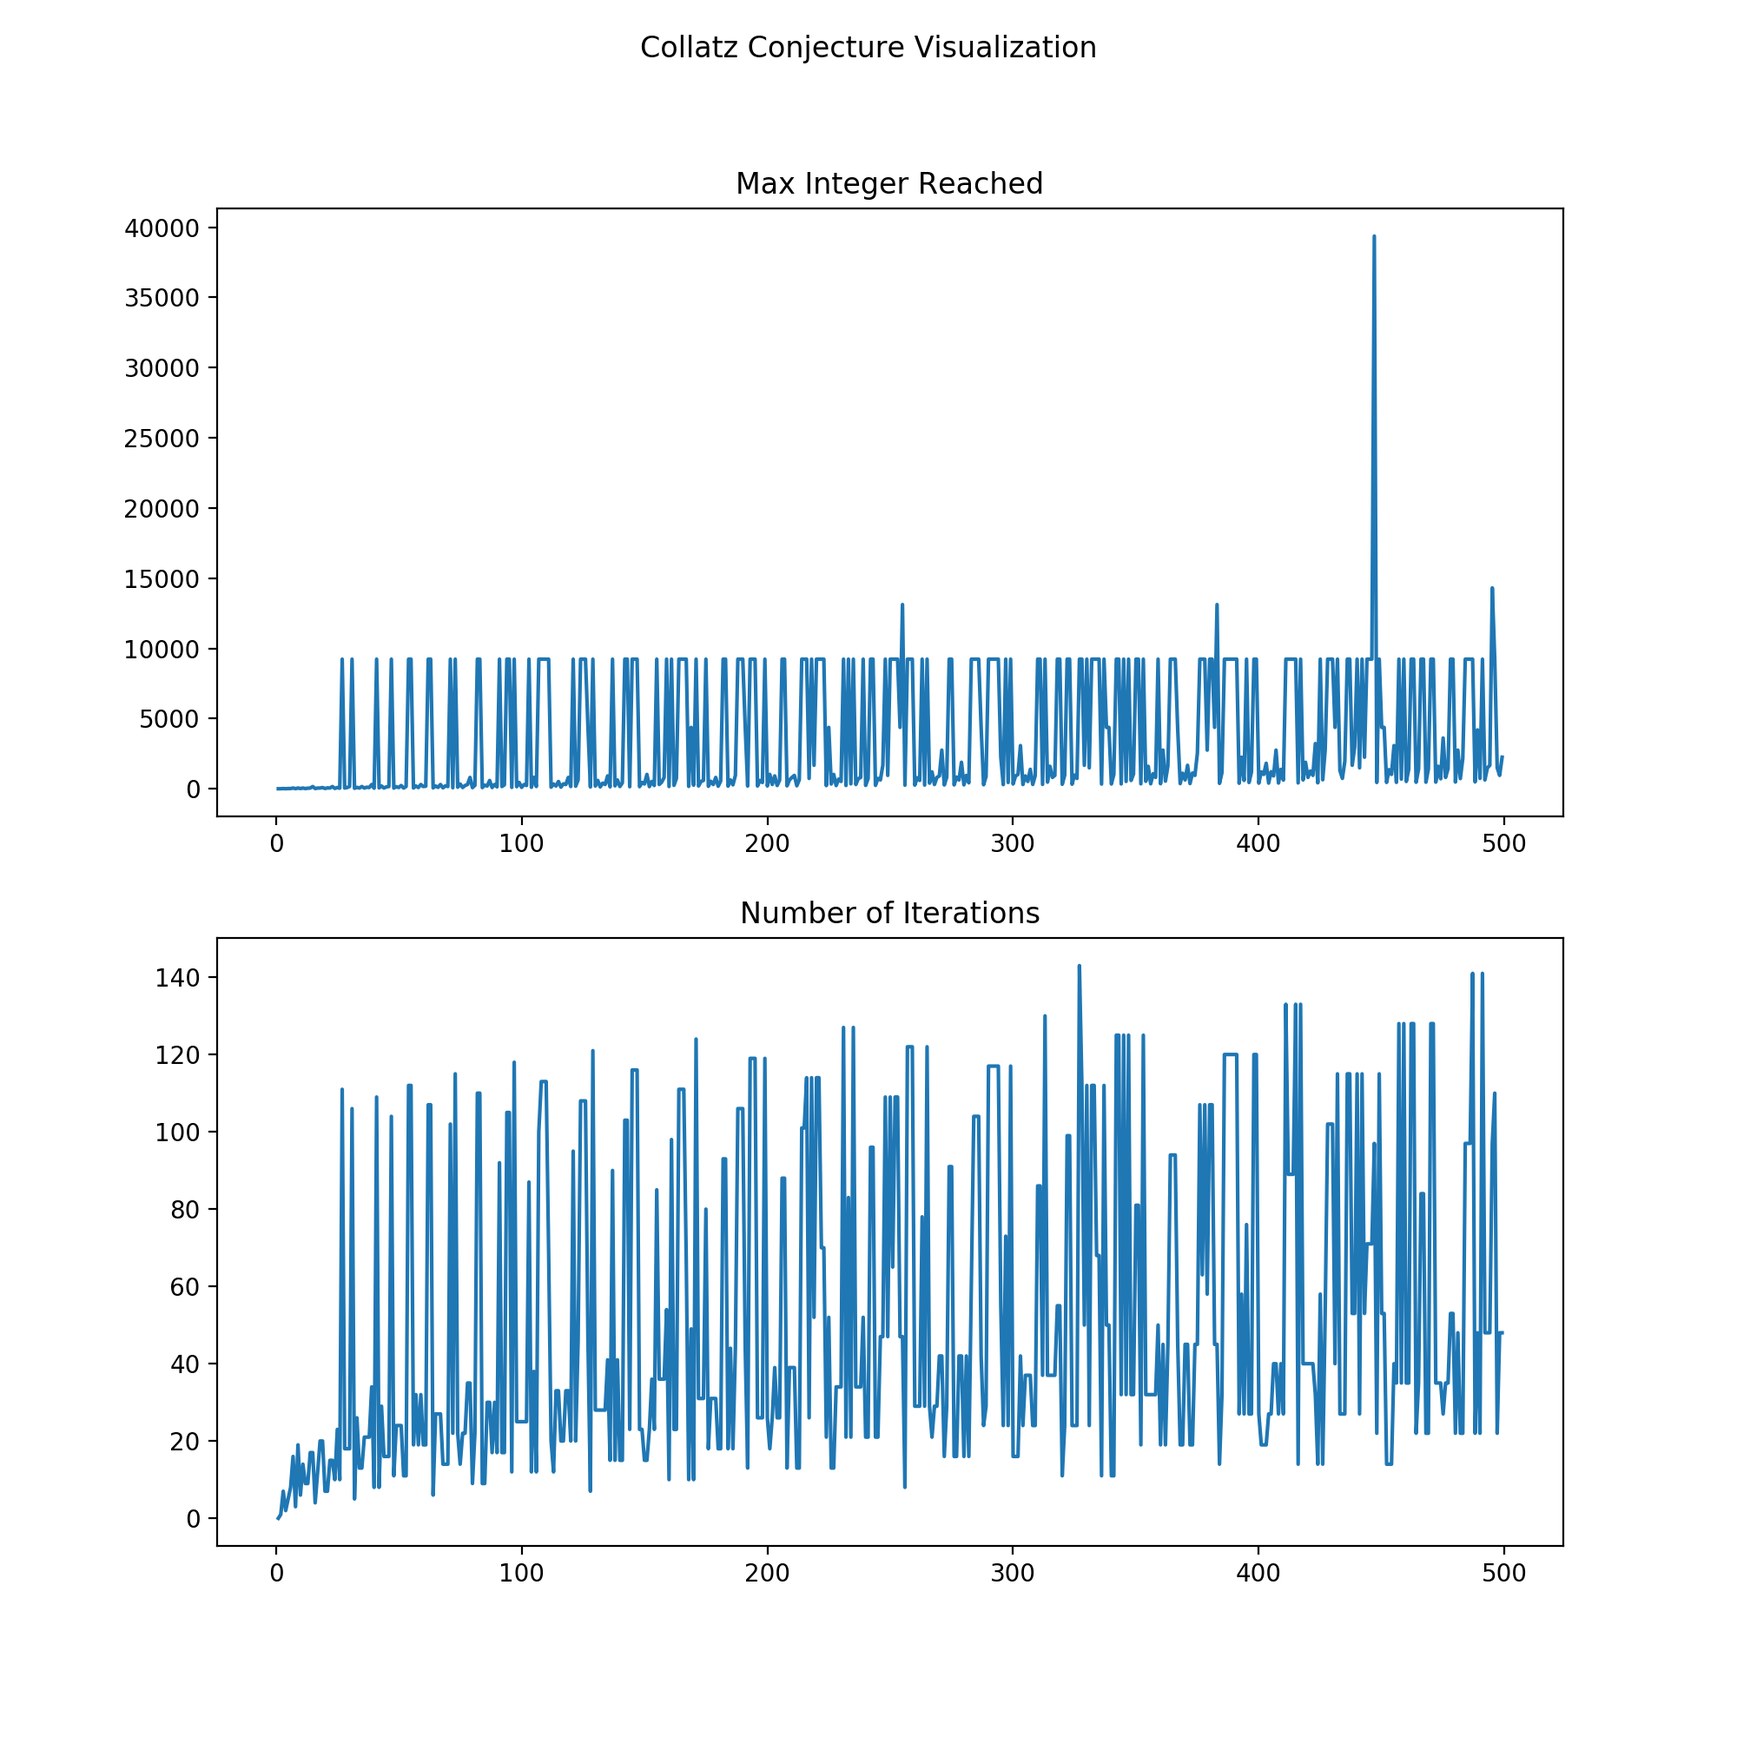
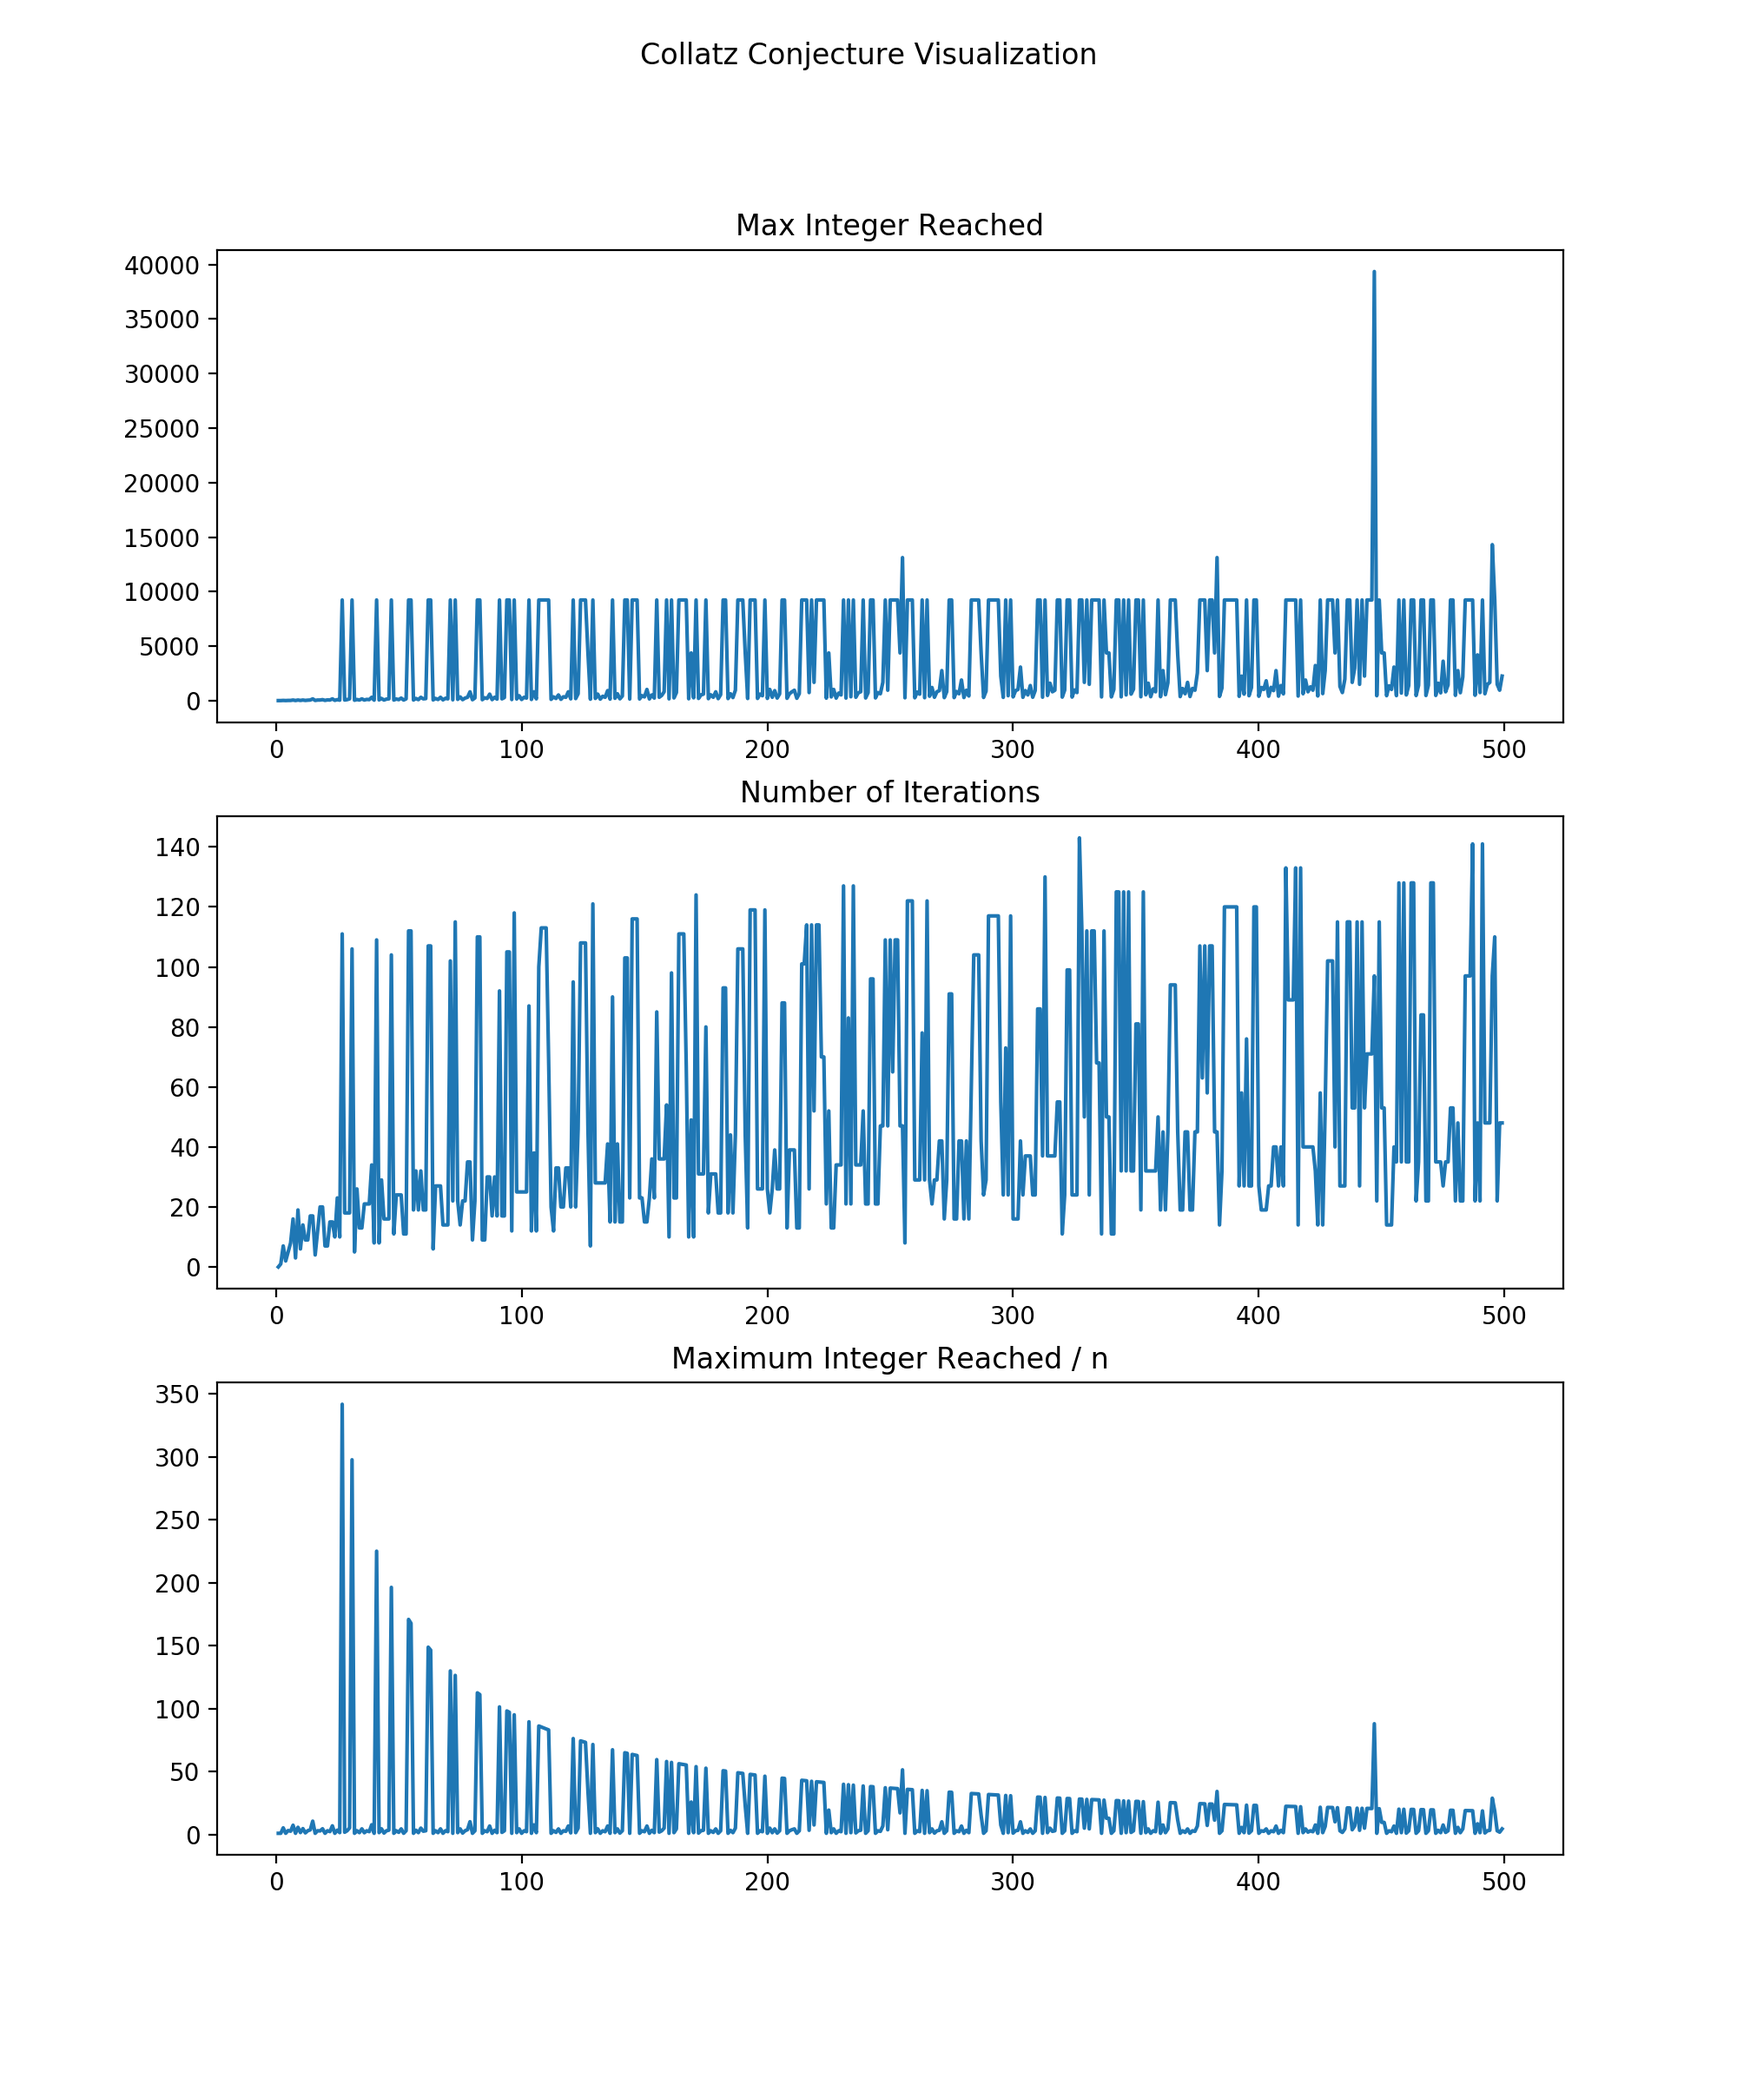
update

diff --git a/visualization.py b/visualization.py
@@ -14,12 +14,14 @@ import collatz
 
 if __name__ == '__main__':
 
-    df = pd.DataFrame(columns=['initial', 'maximum', 'iterations'])
+    df = pd.DataFrame(columns=['initial', 'maximum', 'iterations', 'ratio'])
     for i in range(1, 500):
         x = i
+        start = i
         maximum = i
         count = 0
         while True:
+            ratio = maximum / start
             if x == 1:
                 break
             else:
@@ -29,18 +31,21 @@ if __name__ == '__main__':
         df = df.append({
             'initial': i,
             'maximum': maximum,
-            'iterations': count
+            'iterations': count,
+            'ratio': ratio
         }, ignore_index=True)
 
     print(df)
-    exit()
 
-    plt.figure(figsize=(10, 10))
-    plt.subplot(211)
+    plt.figure(figsize=(10, 12))
+    plt.subplot(311)
     plt.plot(df['initial'], df['maximum'])
     plt.title('Max Integer Reached')
-    plt.subplot(212)
+    plt.subplot(312)
     plt.plot(df['initial'], df['iterations'])
     plt.title('Number of Iterations')
+    plt.subplot(313)
+    plt.plot(df['initial'], df['ratio'])
+    plt.title('Maximum Integer Reached / n')
     plt.suptitle('Collatz Conjecture Visualization')
     plt.savefig('visualization.png', dpi=200)
